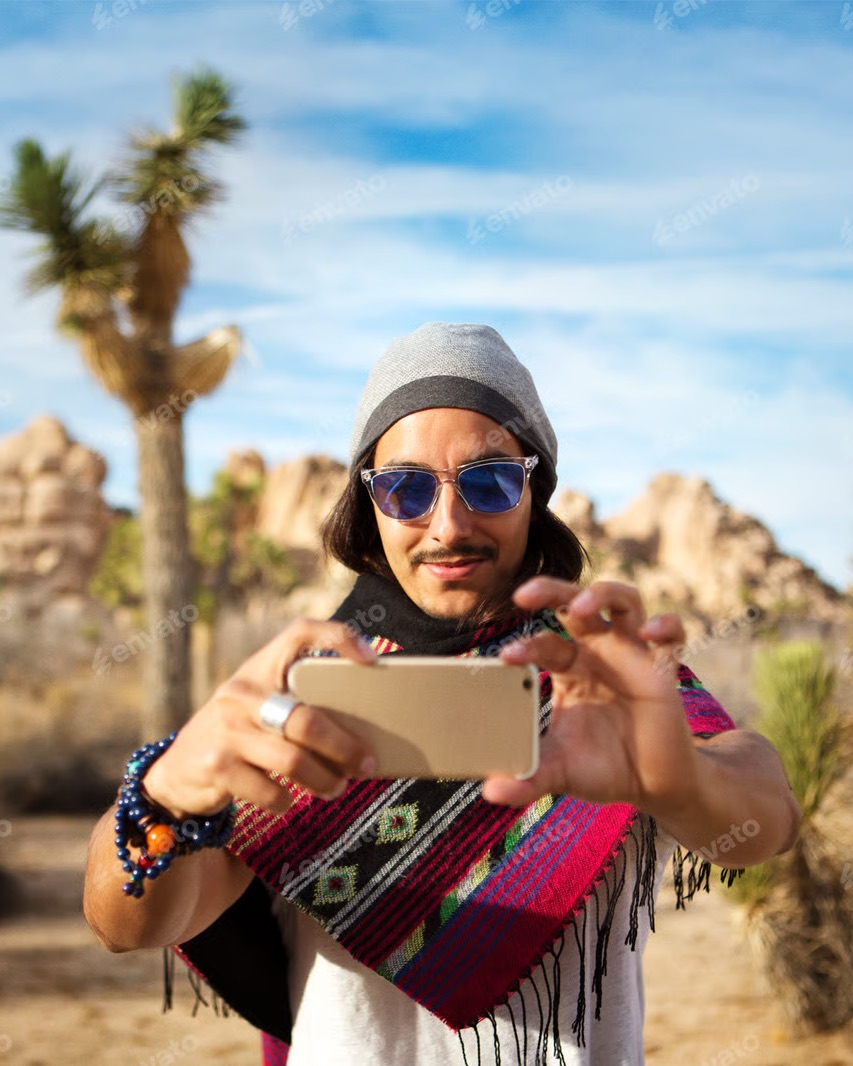
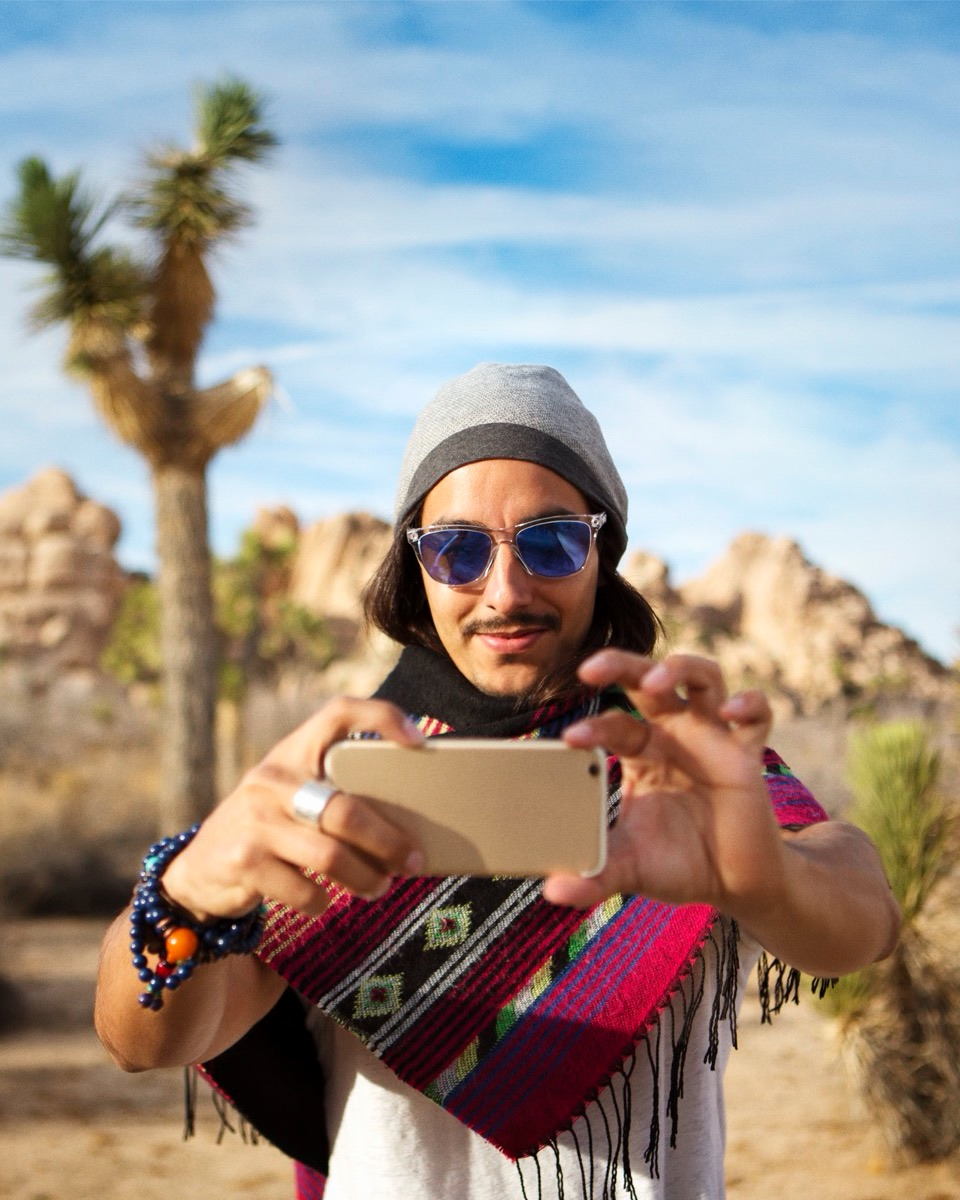
chore: replace watermarked placeholder photos with licensed images
Crop the eight licensed stock photos to the 4:5 and 9:16 frames the site
uses, export them at 960x1200 / 675x1200, and update each img's width,
height and alt text to match.

Claude-Session: https://claude.ai/code/session_014UvefWz4DmcwK3SYAjctXU

diff --git a/public/index.html b/public/index.html
@@ -131,10 +131,10 @@
         </div>
       </div>
       <div class="wrap hero-gallery">
-        <figure class="photo ratio-4-5"><img src="/assets/img/home-hero-product.jpg" width="853" height="1066" alt="Creator mostrando un producto frente a su micrófono"></figure>
-        <figure class="photo ratio-9-16"><img src="/assets/img/home-hero-reel.jpg" width="545" height="969" alt="Creator grabando un video con su teléfono"></figure>
-        <figure class="photo ratio-9-16"><img src="/assets/img/home-hero-reel-2.jpg" width="600" height="1066" alt="Creator grabando contenido en su escritorio"></figure>
-        <figure class="photo ratio-4-5"><img src="/assets/img/home-hero-place.jpg" width="844" height="1055" alt="Creator trabajando en el local de una marca"></figure>
+        <figure class="photo ratio-4-5"><img src="/assets/img/home-hero-product.jpg" width="960" height="1200" alt="Creator mostrando brochas de maquillaje en su estudio de grabación"></figure>
+        <figure class="photo ratio-9-16"><img src="/assets/img/home-hero-reel.jpg" width="675" height="1200" alt="Teléfono en trípode grabando a dos creators"></figure>
+        <figure class="photo ratio-9-16"><img src="/assets/img/home-hero-reel-2.jpg" width="675" height="1200" alt="Creator grabando un podcast con su micrófono"></figure>
+        <figure class="photo ratio-4-5"><img src="/assets/img/home-hero-place.jpg" width="960" height="1200" alt="Creator trabajando con su tablet en una cafetería"></figure>
       </div>
       <div class="wrap doors">
         <div class="door door--yellow">
@@ -176,13 +176,13 @@
             <a href="/marcas/" class="text-link">Ver todo para marcas</a>
           </div>
         </div>
-        <figure class="photo ratio-4-5"><img src="/assets/img/home-brands.jpg" width="853" height="1066" loading="lazy" alt="Creator fotografiando a otra persona que sostiene un letrero de me gusta"></figure>
+        <figure class="photo ratio-4-5"><img src="/assets/img/home-brands.jpg" width="960" height="1200" loading="lazy" alt="Creator presentando frente a la cámara de su teléfono"></figure>
       </div>
     </section>
 
     <section id="creators" class="section" aria-labelledby="creators-title">
       <div class="wrap pad split">
-        <figure class="photo ratio-4-5 order-last-narrow"><img src="/assets/img/home-creators.jpg" width="853" height="1066" loading="lazy" alt="Creator grabando un podcast con su micrófono"></figure>
+        <figure class="photo ratio-4-5 order-last-narrow"><img src="/assets/img/home-creators.jpg" width="960" height="1200" loading="lazy" alt="Creator de viajes tomándose una selfie con su cámara"></figure>
         <div class="stack">
           <div class="stack-tight">
             <span class="t-label eyebrow eyebrow--mark"><span class="rl-mark rl-mark--creator"></span>Para creators</span>

diff --git a/public/marcas/index.html b/public/marcas/index.html
@@ -126,7 +126,7 @@
             <a href="#como-funciona" class="text-link text-link--15">Ver cómo funciona</a>
           </div>
         </div>
-        <figure class="photo ratio-4-5"><img src="/assets/img/brands-hero.jpg" width="853" height="1066" alt="Creator mostrando un producto de una marca frente a su cámara"></figure>
+        <figure class="photo ratio-4-5"><img src="/assets/img/brands-hero.jpg" width="960" height="1200" alt="Creator mostrando un producto de maquillaje frente a su aro de luz"></figure>
       </div>
     </section>
 

diff --git a/public/creators/index.html b/public/creators/index.html
@@ -126,7 +126,7 @@
             <a href="#como-funciona" class="text-link text-link--15">Ver cómo funciona</a>
           </div>
         </div>
-        <figure class="photo ratio-4-5"><img src="/assets/img/creators-hero.jpg" width="853" height="1066" alt="Creator tomando una foto con su teléfono en el desierto"></figure>
+        <figure class="photo ratio-4-5"><img src="/assets/img/creators-hero.jpg" width="960" height="1200" alt="Creator tomando una foto con su teléfono en el desierto"></figure>
       </div>
     </section>
 
